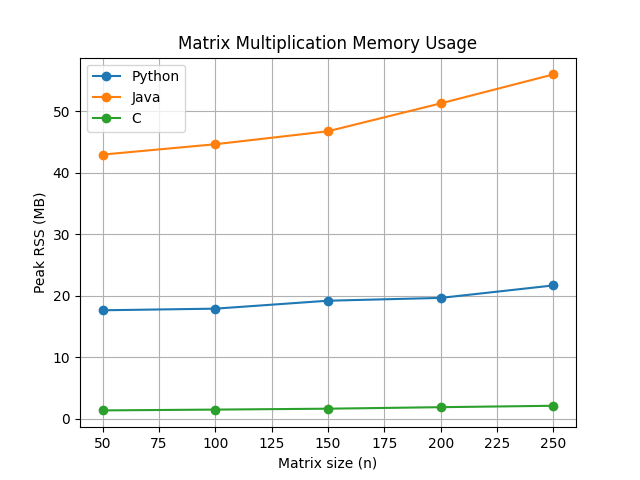
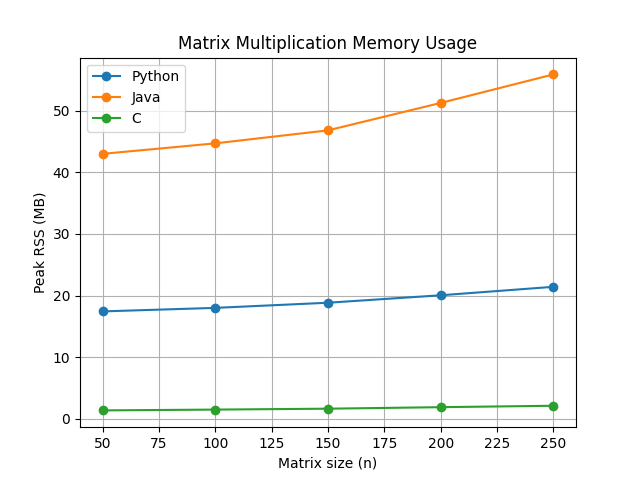
Fic java test and readme

diff --git a/source/java/MemoryTest.java b/source/java/MemoryTest.java
@@ -44,6 +44,8 @@ public class MemoryTest {
             n
         );
 
-        int[][] C = MatrixMultiplication.matrixMultiply(A, B);
+        int[][] C = new int[n][n];
+
+        MatrixMultiplication.matrixMultiply(A, B, C);
     }
 }

diff --git a/README.md b/README.md
@@ -20,6 +20,16 @@ The experiment studies how matrix size affects:
 The implementations use the same input matrices in order to make the comparison reproducible.
 
 ---
+## Research Question and Hypothesis
+
+The research question is:
+
+How does the execution time and memory usage of the same basic dense matrix multiplication algorithm differ when implemented in Python, Java and C on the same hardware and using the same input matrices?
+
+The hypothesis is that execution time will increase approximately according to the cubic growth of the standard matrix multiplication algorithm as matrix size increases.
+
+It is also expected that the three implementations will show different execution times and memory usage because of differences in their runtime environments, memory representations and execution models. These results are specific to the tested implementations and experimental environment and are not intended as universal claims about the programming languages.
+---
 
 ## Project Structure
 
@@ -50,13 +60,15 @@ Assignment1/
 │   ├── python_results.csv
 │   ├── java_results.csv
 │   ├── c_results.csv
-│   └── memory_results.csv
+│   ├── memory_results.csv
+|   └── summary_time.csv
 │
 ├── source/
 │   ├── Python/
 │   │   ├── matrix_multiplication.py
 │   │   ├── benchmark.py
-│   │   ├── test_correctness.py
+│   │   ├── test_correct.py
+│   │   ├── reference_test.py
 │   │   ├── memory_test.py
 │   │   └── memory_benchmark.py
 │   │
@@ -118,29 +130,37 @@ Before benchmarking, the implementations are tested using:
 
 From the project root:
 
-```bash
-python3 source/Python/test_correctness.py
-```
+python3 source/Python/test_correct.py
 
 ### Java
 
-```bash
 cd source/java
 javac MatrixMultiplication.java TestCorrectness.java
 java TestCorrectness
 cd ../..
-```
 
 ### C
 
-```bash
 cd source/c
 clang matrix_multiplication.c test_correctness.c -o test_correctness
 ./test_correctness
 cd ../..
-```
 
 All correctness tests should return `true`.
+
+### Reference Validation
+
+In addition to the basic correctness tests, the Python implementation is compared against NumPy as a trusted reference implementation.
+
+Run from the project root:
+
+python3 source/Python/reference_test.py
+
+The reference test uses the same CSV input matrices used in the benchmarks and compares the complete multiplication result with `numpy.matmul`.
+
+All tested matrix sizes (50, 100, 150, 200 and 250) matched the NumPy reference.
+
+The runtime benchmarks also calculate a checksum of the resulting matrix after the timed region. For every matrix size, the checksum is identical in Python, Java and C, providing an additional cross-language correctness check.
 
 ---
 
@@ -152,96 +172,103 @@ The algorithm performs O(n^3) arithmetic operations for two n x n dense matrices
 
 Python stores the matrices as lists of lists of Python integers.
 
-Java uses two-dimensional int arrays (int[][]).
+Java uses two-dimensional int arrays (`int[][]`).
 
 C uses dynamically allocated integer matrices through pointers.
 
-Java and C use fixed-width integer representations provided by their respective implementations, while Python integers have different runtime storage characteristics.
+Java stores matrix values using 32-bit signed `int` values. C uses the `int` type, which is 32 bits on the tested platform. Python uses arbitrary-precision integer objects with different runtime storage characteristics.
 
-These language-specific storage differences are unavoidable and are considered when interpreting the memory results.
+With input values between 0 and 9 and a maximum tested matrix size of 250, the maximum possible value of a single output element is 250 × 9 × 9 = 20,250, which is well within the integer range used by Java and C.
 
-No optimized matrix multiplication libraries such as NumPy, BLAS or similar libraries are used for the multiplication itself.
+These language-specific storage differences are considered when interpreting the memory results.
+
+No optimized matrix multiplication libraries such as NumPy, BLAS or similar libraries are used for the benchmarked multiplication itself.
+
+NumPy is used only as a trusted reference implementation for correctness validation.
 
 The implementations are sequential. No explicit multithreading or parallel execution is used in Assignment 1.
 
 ---
 
-
 ## Runtime Benchmark
 
 For each language, five measured repetitions are performed for every matrix size.
 
-Input loading is excluded from the timed region. Only the matrix multiplication operation is measured.
+Input loading and allocation of the output matrix `C` are excluded from the timed region.
+
+Inside the timed region, each output element is initialized with `C[i][j] = 0` and the standard triple-loop multiplication is performed.
+
+After the timer stops, the resulting matrix is consumed by calculating a checksum. The checksum calculation is therefore not included in the measured execution time.
+
+The checksum is stored together with every runtime measurement in the result CSV files. For each matrix size, the checksum is identical across Python, Java and C.
 
 ### Python
 
 Python uses:
 
-```text
 time.perf_counter()
-```
 
 Run from the project root:
 
-```bash
 python3 source/Python/benchmark.py
-```
 
 Results are stored in:
 
-```text
 results/python_results.csv
-```
 
 ### Java
 
 Java uses:
 
-```text
 System.nanoTime()
-```
 
-One untimed multiplication is performed before the measured repetitions as JVM warm-up.
+Three untimed multiplication executions are performed for each matrix size before the five measured repetitions as JVM warm-up.
 
 Run:
 
-```bash
 cd source/java
 javac MatrixMultiplication.java Benchmark.java
 java Benchmark
 cd ../..
-```
 
 Results are stored in:
 
-```text
 results/java_results.csv
-```
 
 ### C
 
 C uses:
 
-```text
 CLOCK_MONOTONIC
-```
 
 The program is compiled with optimisation level `-O2`.
 
 Run:
 
-```bash
 cd source/c
 clang -O2 matrix_multiplication.c benchmark.c -o benchmark
 ./benchmark
 cd ../..
-```
 
 Results are stored in:
 
-```text
 results/c_results.csv
-```
+
+### Fixed Execution Settings
+
+The following settings are kept fixed during the final experiments:
+
+- Python: CPython 3.13.0
+- Java: OpenJDK 25.0.2
+- Java warm-up: 3 untimed executions per matrix size
+- C compiler: Apple Clang 21.0.0
+- C compilation optimization: `-O2`
+- Five measured runtime repetitions per language and matrix size
+- Same loop order: `i -> j -> k`
+- Same shared CSV input matrices
+- No explicit parallelism or multithreading in the matrix multiplication code
+
+Java may internally use JVM services such as JIT compilation or garbage collection, while Python includes interpreter overhead and C is compiled ahead of time. These differences are part of the execution environments and are considered when interpreting the results.
 
 ---
 
@@ -254,11 +281,33 @@ For every matrix size and language, the analysis reports:
 
 Run from the project root:
 
-```bash
 python3 analysis/analysis_results.py
-```
 
 The analysis uses `pandas`.
+
+The script also generates the summary file:
+
+results/summary_time.csv
+
+This file contains the median execution time and IQR for every language and matrix size and is used to prepare the result tables in the report.
+
+---
+
+## Experimental Scope and Limits
+
+The final runtime experiment uses matrix sizes from 50 to 250.
+
+A practical execution-time budget of 5 seconds per individual multiplication and a Peak RSS memory budget of 1 GB are used as feasibility limits for the final experiment.
+
+All tested configurations remained within these limits.
+
+The largest tested and attempted matrix size in the final experiment is:
+
+n = 250
+
+No larger configuration is reported as a failure because sizes above 250 were not attempted in the final experiment.
+
+Therefore, n = 250 should be interpreted as the largest tested size in this study, not as the maximum matrix size that the machine or languages can process.
 
 ---
 
@@ -268,17 +317,13 @@ The plots are generated using `matplotlib`.
 
 Run:
 
-```bash
 python3 analysis/plots.py
-```
 
 The following figures are generated:
 
-```text
 figures/execution_time.png
 figures/execution_time_log.png
 figures/memory_usage.png
-```
 
 The logarithmic execution-time plot is included because the large difference between Python and the compiled/JVM implementations makes Java and C difficult to distinguish on a linear scale.
 
@@ -322,7 +367,7 @@ cd source/c
 clang -O2 matrix_multiplication.c memory_test.c -o memory_test
 cd ../..
 
-### Run the complete memory benchmark
+### Run the Complete Memory Benchmark
 
 From the project root, run:
 
@@ -337,6 +382,10 @@ results/memory_results.csv
 The reported Peak RSS represents the memory usage of the complete process, not only the memory occupied by the matrices. Therefore, runtime overhead such as the Python interpreter and the Java Virtual Machine is also included.
 
 The memory measurement script is specific to macOS because it uses `/usr/bin/time -l`.
+
+One Peak RSS measurement is recorded for each language and matrix size. Unlike the runtime experiment, the memory results are therefore presented as individual process-level measurements rather than as median and IQR statistics.
+
+Runtime and memory results are analysed separately because they represent different performance metrics.
 ---
 
 ## Experimental Environment
@@ -369,7 +418,12 @@ environment.txt
 ```
 
 ---
+## Use of Generative AI
 
+ChatGPT (OpenAI) was used as a support tool during the assignment for explaining concepts, planning the experimental workflow, assisting with code development and debugging, and revising the English wording of the documentation.
+
+All programs were reviewed and executed by the student. Experimental measurements were generated locally on the hardware described above, and the reported results were checked against the raw CSV files. NumPy was used only as a trusted correctness reference and not as part of the benchmarked matrix multiplication implementations.
+---
 ## Reproducibility
 
 The general experiment can be reproduced in the following order:
